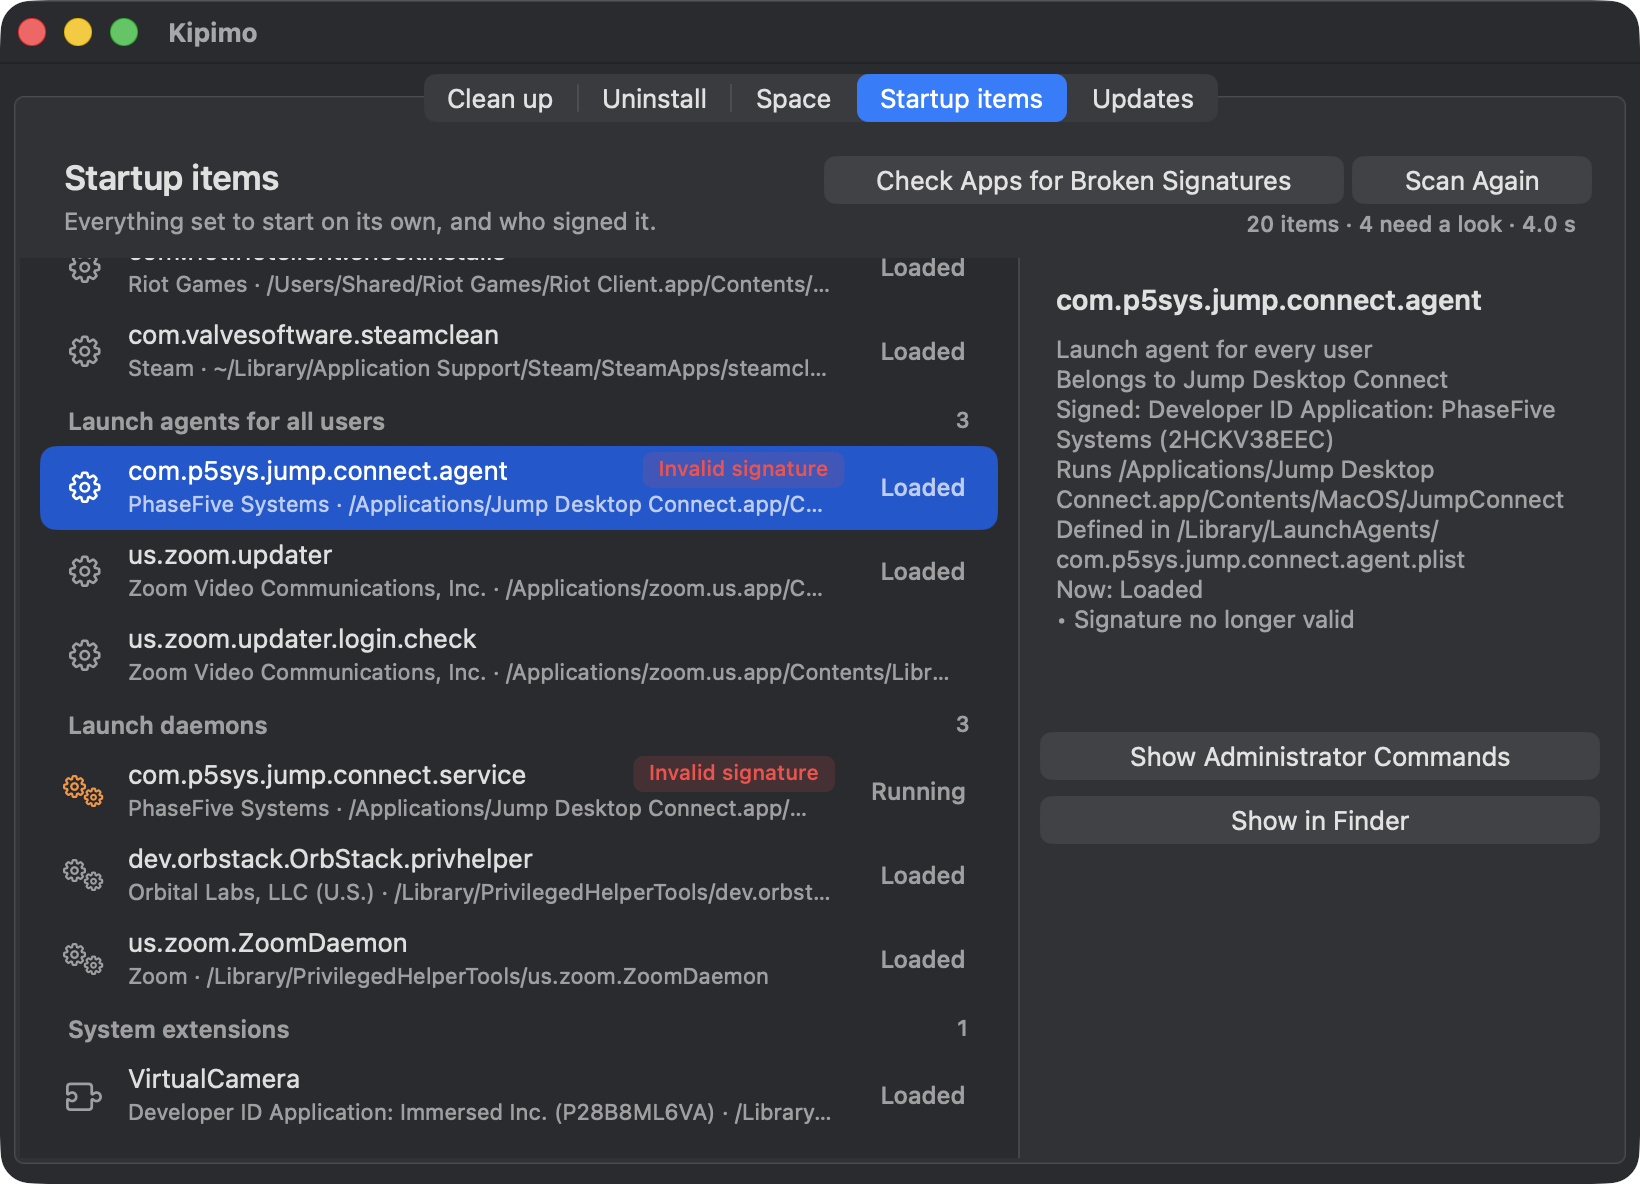
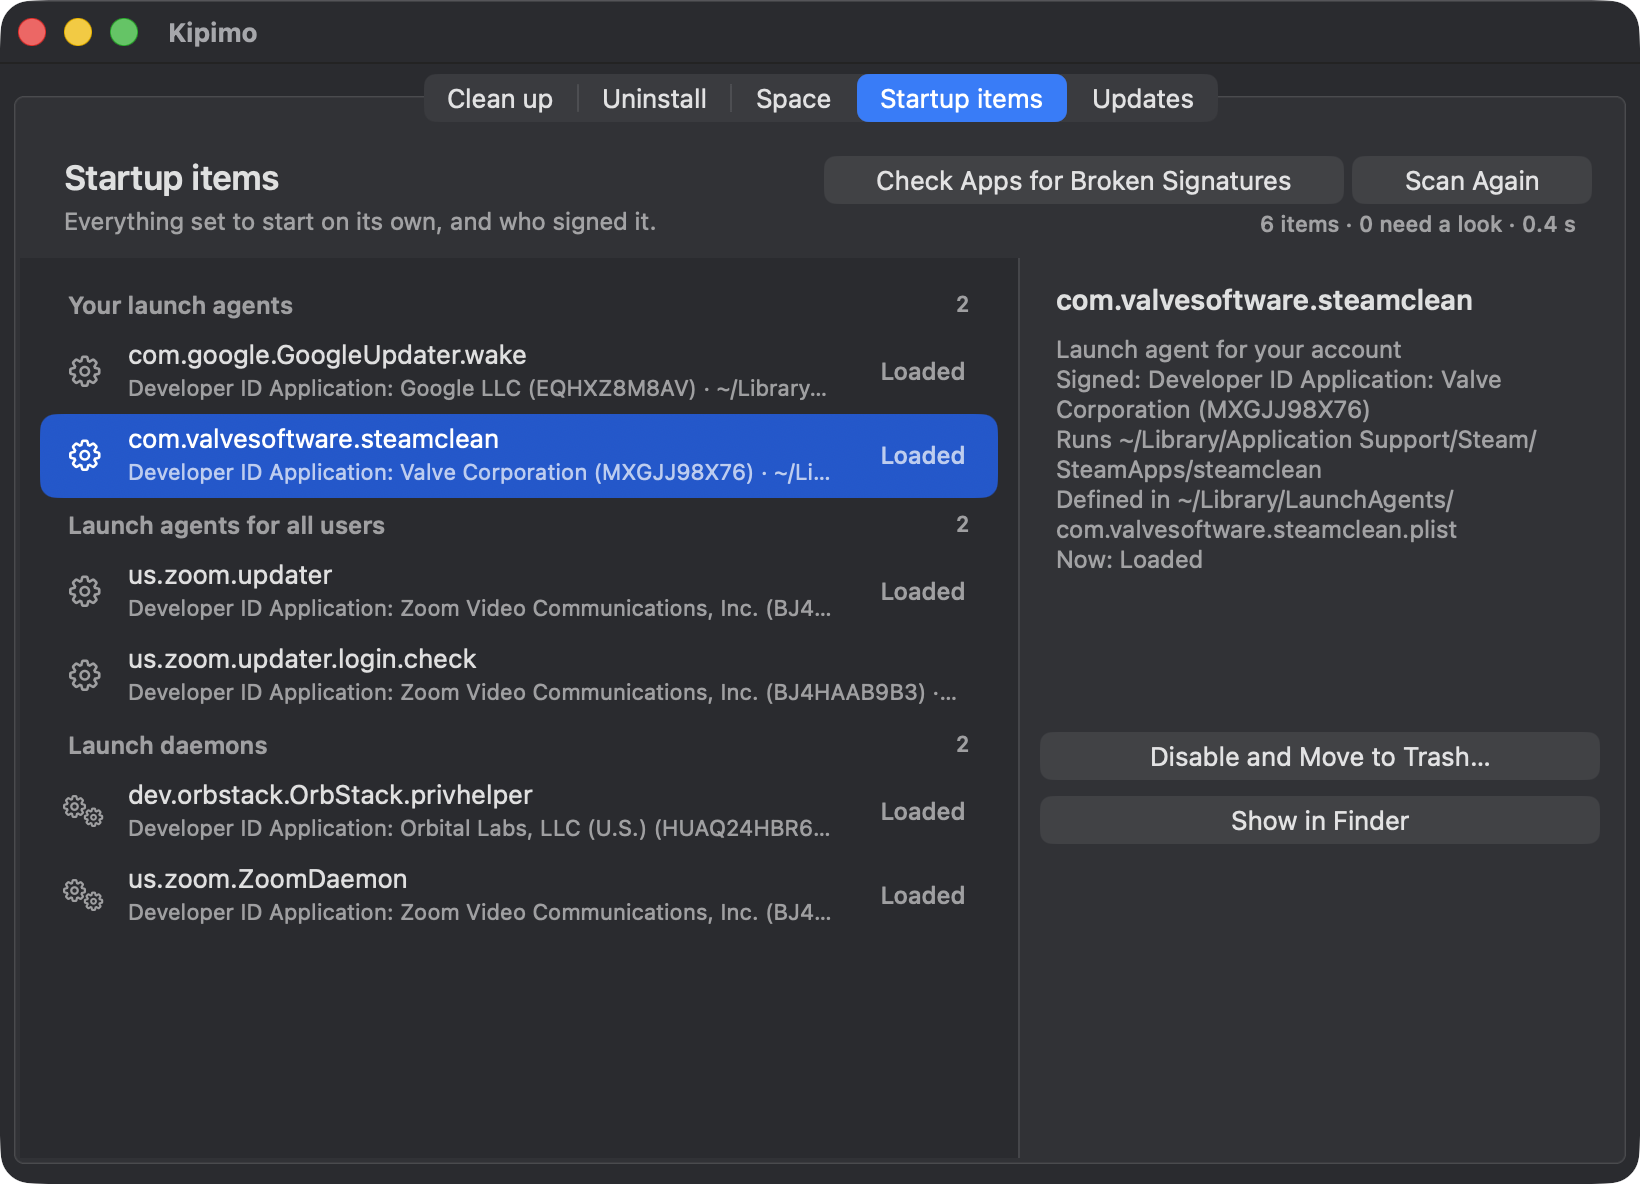
README: retake the Startup items screenshot

diff --git a/README.md b/README.md
@@ -102,7 +102,7 @@ Space shows what is using your disk, folder by folder, largest first. Choose you
 ### Startup items
 
 <p align="center">
-  <img src="docs/images/tools-startup.png" width="820" alt="Startup items: launch agents, launch daemons and a system extension, each with its signer; a launch agent with an invalid signature is selected">
+  <img src="docs/images/tools-startup.png" width="820" alt="Startup items: launch agents and daemons from Google, Valve, Zoom and OrbStack, each with its signer; Steam's agent is selected">
 </p>
 
 Startup items lists everything set to start on its own: apps that open at login, items allowed to run in the background, and launch agents and daemons. Each entry shows who signed it, whether it's running, and the program it runs. Items that are unsigned, signed only for this Mac, whose signature is no longer valid, or that point at a missing file are flagged.
